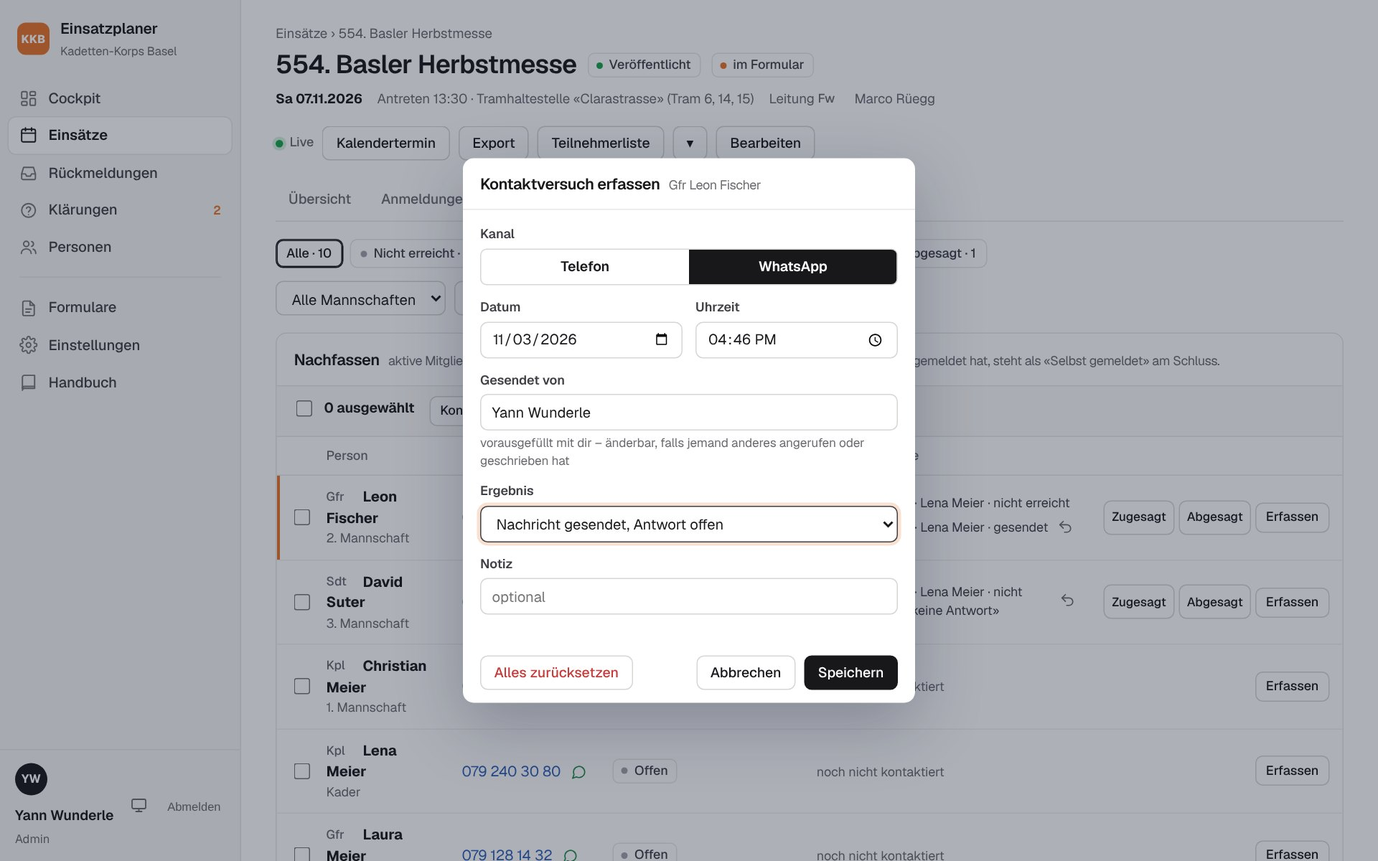
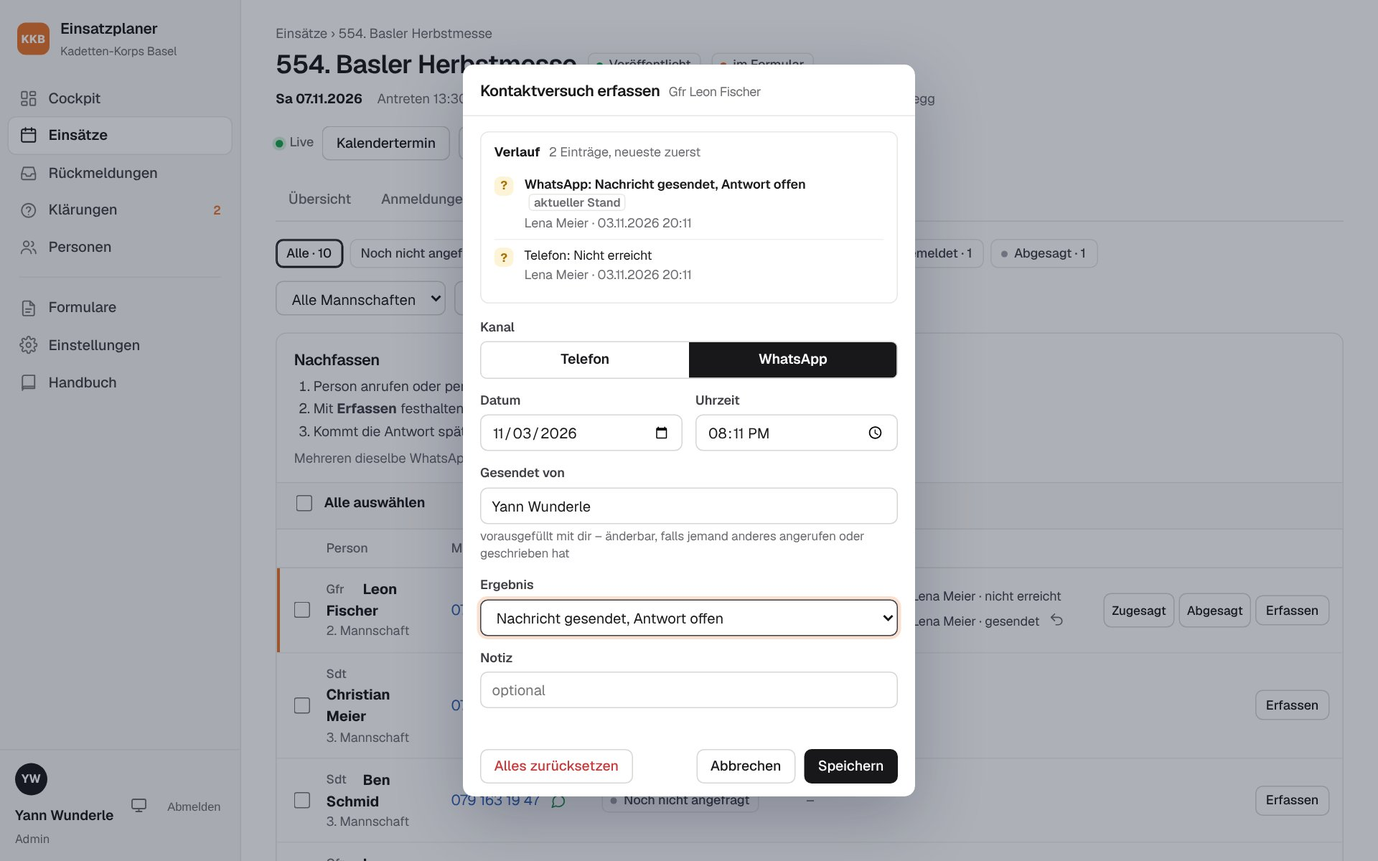
Rückmeldungen: Status-Historie pro Person und Einsatz
Das Symbol zeigt weiter nur den neuesten Stand. Beim Darüberfahren steht,
wer ihn wann gesetzt hat; ein Klick öffnet im Kontaktversuch-Fenster den
ganzen Verlauf (Formular, Kontakte, Statuswechsel, Schichten,
Bestätigungsmails). Quelle ist das bestehende Protokoll, deshalb erscheinen
auch ältere Einträge. Direkt gesetzter Anfragestatus wird neu protokolliert.
Handbuch (Kapitel 11, 13, FAQ) und Bild 12 nachgeführt, Bild 44 neu.

Claude-Session: https://claude.ai/code/session_01EBemd35pe3GHjPybdXLJqu

diff --git a/src/services/history.js b/src/services/history.js
@@ -1,0 +1,170 @@
+'use strict';
+// Status-Historie pro Person und Einsatz: jede Rückmeldung, jeder Statuswechsel und jeder Kontakt
+// mit wer und wann. Quelle ist das Protokoll (audit_log) plus die verschickten Bestätigungsmails,
+// damit auch alles einfliesst, was schon vor dieser Ansicht erfasst wurde.
+const db = require('../db');
+const { SOURCE, CHANNEL, REG_STATUS, INQUIRY_STATUS, ATTEMPT_RESULT } = require('../lib/labels');
+const { fmtDateTime, fmtRelative, toLocal } = require('../lib/dates');
+
+const SELF = 'Person selbst';
+
+// Anmeldestatus / Anfragestatus -> Symbol der Rückmeldungen-Tabelle
+function stateOfReg(status) {
+  if (!status) return null;
+  if (status === 'ungueltig') return 'offen';
+  if (['zurueckgezogen', 'abgesagt'].includes(status)) return 'ab';
+  if (['rueckfrage', 'unsicher'].includes(status)) return 'unsicher';
+  return 'an';
+}
+function stateOfResult(result) {
+  if (result === 'zugesagt') return 'an';
+  if (result === 'abgesagt') return 'ab';
+  if (result === 'offen') return 'offen';
+  return result ? 'unsicher' : null;
+}
+
+function parse(json) {
+  try { return json ? JSON.parse(json) : {}; } catch { return {}; }
+}
+
+// Text vor « hat » = wer es getan hat (ältere Einträge ohne Details)
+const actorOf = (summary) => String(summary || '').split(' hat ')[0];
+
+/** Einen Protokolleintrag in einen kurzen Historie-Eintrag übersetzen */
+function entryFromAudit(a) {
+  const d = parse(a.details);
+  const by = a.user_name || 'System';
+  const base = { id: `a${a.id}`, kind: `${a.entity_type}:${a.action}`, userId: a.user_id, at: a.created_at, by, state: null, text: '', note: null };
+  const s = a.summary || '';
+  switch (`${a.entity_type}:${a.action}`) {
+    case 'registration:create': {
+      const source = d.quelle || Object.keys(SOURCE).find((k) => s.includes(`· ${SOURCE[k]}`)) || null;
+      const no = d.antwort ? d.antwort === 'nein' : / hat für «.*» abgesagt/.test(s);
+      const self = !a.user_id && (source === 'formular' || (!source && by === 'System'));
+      return {
+        ...base, by: self ? SELF : by, self,
+        state: no ? 'ab' : (d.status === 'unsicher' || s.includes('Zuordnung unsicher') ? 'unsicher' : 'an'),
+        text: `${no ? 'Abgemeldet' : 'Angemeldet'}${source ? ` · ${SOURCE[source]}` : ''}`,
+      };
+    }
+    case 'registration:duplicate': {
+      const again = s.includes('erneut angemeldet');
+      const late = s.includes('nachträglich');
+      return {
+        ...base, by: SELF, self: true, state: again ? 'an' : late ? 'unsicher' : null,
+        text: again ? 'Erneut angemeldet (vorher abgemeldet)' : late ? 'Nachträglich «Nein» gesendet, Rückfrage nötig' : 'Formular nochmals abgeschickt',
+      };
+    }
+    case 'registration:status': {
+      const to = d.status?.neu;
+      return { ...base, state: stateOfReg(to), text: to ? `Anmeldung: ${REG_STATUS[to]?.label || to}` : s };
+    }
+    case 'registration:assign':
+      return { ...base, state: null, text: d.vorher ? `Anmeldung von ${d.vorher} hierher umgehängt` : 'Formular-Anmeldung dieser Person zugeordnet' };
+    case 'registration:unassign':
+      return { ...base, state: 'offen', text: 'Anmeldung zu einer anderen Person umgehängt' };
+    case 'registration:shifts': {
+      const m = s.match(/umgeteilt: (.*)$/);
+      return { ...base, text: m ? `Schicht: ${m[1]}` : 'Schicht geändert' };
+    }
+    case 'registration:note':
+      return { ...base, text: 'Interne Bemerkung geändert', note: d.internal_note?.neu || null };
+    case 'registration:delete':
+      return { ...base, state: 'offen', text: `${['zurueckgezogen', 'abgesagt'].includes(d.status) ? 'Abmeldung' : 'Anmeldung'} gelöscht` };
+    case 'inquiry:attempt': {
+      const ch = d.kanal ? CHANNEL[d.kanal]?.label : null;
+      const result = d.ergebnis;
+      const sentBy = d.gesendet_von || actorOf(s);
+      return {
+        ...base, by: sentBy, state: stateOfResult(result),
+        text: `${ch ? `${ch}: ` : ''}${ATTEMPT_RESULT[result] || result || 'Kontakt'}`,
+        when: d.zeitpunkt || null,
+        enteredBy: d.erfasst_von && d.erfasst_von !== sentBy ? d.erfasst_von : null,
+        note: d.notiz || null,
+      };
+    }
+    case 'inquiry:status':
+      return { ...base, state: stateOfResult(d.status?.neu), text: `Anfrage: ${INQUIRY_STATUS[d.status?.neu]?.label || d.status?.neu}` };
+    case 'inquiry:attempt_delete':
+      return { ...base, text: `Kontaktversuch zurückgenommen${d.kanal ? ` (${CHANNEL[d.kanal]?.label})` : ''}` };
+    case 'inquiry:reset':
+      return { ...base, state: 'offen', text: 'Alles zurückgesetzt' };
+    default:
+      return { ...base, text: s.replace(/ · [^·]+$/, '') };
+  }
+}
+
+const MAIL_STATUS = { gesendet: 'gesendet', offen: 'wird gesendet', nicht_konfiguriert: 'nicht gesendet (kein Mailserver)', fehler: 'Fehler beim Senden' };
+function entryFromMail(m) {
+  return { id: `m${m.id}`, at: m.created_at, by: 'automatisch', state: null, text: `Bestätigungsmail an ${m.to_address}: ${MAIL_STATUS[m.status] || m.status}` };
+}
+
+// Ein Kontaktversuch legt die Anmeldung gleich mit an bzw. zieht sie zurück: diese Begleit-Einträge
+// direkt vor dem Kontaktversuch weglassen, sonst steht dasselbe zweimal da
+function dropEchoes(list) {
+  return list.filter((e, i) => {
+    const next = list[i + 1];
+    if (!next || next.kind !== 'inquiry:attempt' || !['registration:create', 'registration:status'].includes(e.kind)) return true;
+    return !(e.userId === next.userId && Math.abs(new Date(next.at) - new Date(e.at)) < 5000);
+  });
+}
+
+function finish(list) {
+  // neueste zuerst, nach dem Zeitpunkt des Geschehens (Kontaktversuche können nachträglich erfasst sein);
+  // bei gleicher Minute der später erfasste zuerst
+  const key = (e) => {
+    const m = e.when && e.when.match(/^(\d{2})\.(\d{2})\.(\d{4}) (\d{2}:\d{2})$/);
+    return m ? `${m[3]}-${m[2]}-${m[1]}T${m[4]}` : toLocal(new Date(e.at));
+  };
+  const order = new Map(list.map((e, i) => [e, [key(e), e.at, i]]));
+  const cmp = (a, b) => (a < b ? -1 : a > b ? 1 : 0);
+  list.sort((x, y) => { const [kx, ax, ix] = order.get(x); const [ky, ay, iy] = order.get(y); return cmp(ky, kx) || cmp(ay, ax) || iy - ix; });
+  for (const e of list) { e.atText = e.when || fmtDateTime(e.at); e.atShort = fmtRelative(e.at); }
+  return list;
+}
+
+const RELEVANT = "a.entity_type IN ('registration','inquiry')";
+
+/** Komplette Historie einer Person bei einem Einsatz, neueste zuerst */
+function forPair(eventId, personId) {
+  const regIds = db.all('SELECT id FROM registrations WHERE event_id = ? AND person_id = ?', eventId, personId).map((r) => r.id);
+  const ph = regIds.map(() => '?').join(',');
+  const audits = db.all(`SELECT a.* FROM audit_log a WHERE ${RELEVANT} AND a.event_id = ? AND (a.person_id = ?${regIds.length ? ` OR (a.entity_type = 'registration' AND a.entity_id IN (${ph}))` : ''})
+    ORDER BY a.id`, eventId, personId, ...regIds);
+  const mails = regIds.length ? db.all(`SELECT * FROM mail_outbox WHERE registration_id IN (${ph}) ORDER BY id`, ...regIds) : [];
+  return finish([...dropEchoes(audits.map(entryFromAudit)), ...mails.map(entryFromMail)]);
+}
+
+/**
+ * Letzter Eintrag, der den Stand verändert hat, pro «personId:eventId» (für das Icon in der Tabelle).
+ * Einträge ohne Statusbezug (z. B. Schicht, Bemerkung) zählen nur, wenn es sonst nichts gibt.
+ */
+function latestByPair(eventIds) {
+  const out = new Map();
+  if (!eventIds.length) return out;
+  const ph = eventIds.map(() => '?').join(',');
+  // Formular-Anmeldungen ohne Person (später zugeordnet) über die Anmeldung der Person finden
+  const regPerson = new Map(db.all(`SELECT id, person_id FROM registrations WHERE event_id IN (${ph}) AND person_id IS NOT NULL`, ...eventIds).map((r) => [r.id, r.person_id]));
+  const rows = db.all(`SELECT a.* FROM audit_log a WHERE ${RELEVANT} AND a.event_id IN (${ph}) ORDER BY a.id`, ...eventIds);
+  const byPair = new Map();
+  for (const a of rows) {
+    const personId = a.person_id || (a.entity_type === 'registration' ? regPerson.get(a.entity_id) : null);
+    if (!personId) continue;
+    const key = `${personId}:${a.event_id}`;
+    if (!byPair.has(key)) byPair.set(key, []);
+    byPair.get(key).push(entryFromAudit(a));
+  }
+  // Bestätigungsmails zählen im Verlauf mit
+  const mails = new Map();
+  for (const m of db.all(`SELECT g.person_id, g.event_id, COUNT(*) AS n FROM mail_outbox o JOIN registrations g ON g.id = o.registration_id
+    WHERE g.event_id IN (${ph}) AND g.person_id IS NOT NULL GROUP BY g.person_id, g.event_id`, ...eventIds)) mails.set(`${m.person_id}:${m.event_id}`, m.n);
+  for (const [key, all] of byPair) {
+    const list = dropEchoes(all);
+    const e = [...list].reverse().find((x) => x.state) || list[list.length - 1];
+    e.count = list.length + (mails.get(key) || 0);
+    out.set(key, finish([e])[0]);
+  }
+  return out;
+}
+
+module.exports = { forPair, latestByPair, entryFromAudit, SELF };

diff --git a/test/flow.test.js b/test/flow.test.js
@@ -202,3 +202,44 @@ test('Kontaktversuch bei bestehender Anmeldung: Absage zieht zurück, Zusage akt
   assert.equal(registrations.get(reg).status, 'neu');
   assert.equal(db.one('SELECT COUNT(*) AS n FROM registrations WHERE person_id = ?', anna).n, 1);
 });
+
+test('Rückmeldungen: Historie zeigt wer wann welchen Stand gesetzt hat', () => {
+  const { anna, offen } = setup();
+  const inquiries = require('../src/services/inquiries');
+  const feedback = require('../src/services/feedback');
+  const history = require('../src/services/history');
+  const lena = { id: null, display_name: 'Lena Meier', role: 'admin' };
+  const marco = { id: null, display_name: 'Marco Frei', role: 'admin' };
+  db.run("UPDATE persons SET email = 'anna@example.ch' WHERE id = ?", anna);
+  // Nachricht gesendet, dann meldet sich Anna selbst an, dann bestätigt Marco
+  inquiries.addAttempt(offen, anna, { channel: 'whatsapp', result: 'whatsapp', note: 'Gruppenchat' }, lena);
+  const reg = registrations.create({ eventId: offen, personId: anna, enteredFirst: 'Anna', enteredLast: 'Roth', matchType: 'auto', source: 'formular', answer: 'ja' });
+  registrations.setStatus(reg, 'bestaetigt', marco);
+
+  const list = history.forPair(offen, anna);
+  const texts = list.map((e) => `${e.text} | ${e.by}`);
+  assert.ok(texts.includes('WhatsApp: Nachricht gesendet, Antwort offen | Lena Meier'), texts.join('\n'));
+  assert.ok(texts.includes('Angemeldet · Formular | Person selbst'), texts.join('\n'));
+  assert.ok(texts.includes('Anmeldung: Bestätigt | Marco Frei'), texts.join('\n'));
+  assert.ok(list.some((e) => e.text.startsWith('Bestätigungsmail an anna@example.ch')), 'Bestätigungsmail steht im Verlauf');
+  assert.equal(list.find((e) => e.kind === 'inquiry:attempt').note, 'Gruppenchat');
+
+  // Tabelle: Icon zeigt den neuesten Stand, dazu wer ihn gesetzt hat
+  const cell = feedback.matrix({}).rows.find((r) => r.person.id === anna).eventCells.find((c) => c.eventId === offen);
+  assert.equal(cell.state, 'an');
+  assert.equal(cell.last.by, 'Marco Frei');
+  assert.equal(cell.last.count, 4, 'inkl. Bestätigungsmail');
+
+  // Zusage per Telefon: Anmeldung und Kontakt erscheinen als ein Eintrag
+  const chris = db.one("SELECT id FROM persons WHERE first_name = 'Christian'").id;
+  inquiries.addAttempt(offen, chris, { channel: 'telefon', result: 'zugesagt' }, lena);
+  assert.deepEqual(history.forPair(offen, chris).map((e) => e.text), ['Telefon: Zugesagt']);
+  // Anfrage-Status direkt setzen wird ebenfalls protokolliert
+  inquiries.setStatus(offen, chris, 'unsicher', marco);
+  assert.equal(history.forPair(offen, chris)[0].by, 'Marco Frei');
+  // nachträglich erfasster Anruf von gestern steht zeitlich richtig, also zuunterst
+  inquiries.addAttempt(offen, chris, { channel: 'telefon', result: 'nicht_erreicht', date: addDays(today(), -1), time: '09:00' }, marco);
+  const h = history.forPair(offen, chris);
+  assert.equal(h[h.length - 1].text, 'Telefon: Nicht erreicht');
+  assert.match(h[h.length - 1].atText, / 09:00$/);
+});

diff --git a/src/services/inquiries.js b/src/services/inquiries.js
@@ -135,7 +135,7 @@ function addAttempt(eventId, personId, input, user) {
     audit.log({
       entity: 'inquiry', entityId: inq.id, eventId, personId, action: 'attempt',
       summary: `${sentByName} hat ${person.first_name} ${person.last_name} per ${CHANNEL[channel].label} angefragt (${resultText}) · ${event.name}`,
-      details: { kanal: channel, zeitpunkt: fmtLocal(contactedAt), ergebnis: result, erfasst_von: user.display_name }, user,
+      details: { kanal: channel, zeitpunkt: fmtLocal(contactedAt), ergebnis: result, gesendet_von: sentByName, erfasst_von: user.display_name, notiz: String(input.note || '').trim() || null }, user,
     });
     live.notify(`event:${eventId}`, 'feedback', `person:${personId}`);
     return { inquiryId: inq.id, registrationId };
@@ -151,7 +151,15 @@ function setStatus(eventId, personId, status, user) {
     return addAttempt(eventId, personId, { channel: last?.channel || 'whatsapp', result: status, note: 'Antwort erhalten' }, user);
   }
   const inq = ensureInquiry(eventId, personId, user);
+  if (inq.status === status) return { inquiryId: inq.id };
   db.run('UPDATE inquiries SET status = ?, version = version + 1, updated_at = ?, updated_by = ? WHERE id = ?', status, nowIso(), user.id, inq.id);
+  const person = db.one('SELECT first_name, last_name FROM persons WHERE id = ?', personId);
+  const event = db.one('SELECT name FROM events WHERE id = ?', eventId);
+  audit.log({
+    entity: 'inquiry', entityId: inq.id, eventId, personId, action: 'status',
+    summary: `${user.display_name} hat die Anfrage bei ${person?.first_name} ${person?.last_name} auf «${INQUIRY_STATUS[status].label}» gesetzt · ${event?.name}`,
+    details: { status: { alt: inq.status, neu: status } }, user,
+  });
   live.notify(`event:${eventId}`, 'feedback');
   return { inquiryId: inq.id };
 }

diff --git a/public/css/ruhig.css b/public/css/ruhig.css
@@ -241,3 +241,19 @@ td .sub, .cell-sub { font-size: 12px; margin-top: 1px; }
 .nachfassen-head .hint { margin: 0; font-size: 12.5px; }
 .bulkbar [hidden], dialog .btn[hidden] { display: none !important; }
 @media print { .nachfassen-steps, .nachfassen-head .hint { display: none; } }
+
+/* Verlauf im Kontaktversuch-Fenster: wer hat wann welchen Stand gesetzt */
+.hist { border: 1px solid var(--border); border-radius: 8px; padding: 10px 12px; margin-bottom: 14px; }
+.hist[hidden] { display: none; }
+.hist-head { display: flex; gap: 8px; align-items: baseline; margin-bottom: 6px; }
+.hist-list { list-style: none; margin: 0; padding: 0; max-height: 300px; overflow-y: auto; }
+.hist-row { display: grid; grid-template-columns: 18px 1fr; gap: 10px; padding: 6px 0; border-top: 1px solid var(--border-soft); }
+.hist-row:first-child { border-top: 0; }
+.hist-row .fb-sm { width: 18px; height: 18px; font-size: 11px; cursor: default; margin-top: 1px; }
+.fb-none { background: transparent; color: var(--muted-2); }
+.hist-main { display: flex; flex-direction: column; gap: 1px; min-width: 0; }
+.hist-text { color: var(--text); }
+.hist-meta { color: var(--muted); font-size: 12px; }
+.hist-note { color: var(--text-2); font-size: 12px; overflow-wrap: anywhere; }
+.hist-now { font-size: 11px; color: var(--muted); border: 1px solid var(--border); border-radius: 4px; padding: 0 4px; margin-left: 4px; white-space: nowrap; }
+.hist-latest .hist-text { font-weight: 600; }

diff --git a/src/services/feedback.js b/src/services/feedback.js
@@ -2,6 +2,7 @@
 // Rückmeldungen: Mitglieder × anstehende Einsätze (An / Ab / Unsicher / Offen)
 const db = require('../db');
 const externals = require('./externals');
+const history = require('./history');
 const { today, addDays } = require('../lib/dates');
 const { rankOrder } = require('../lib/sorting');
 
@@ -47,6 +48,8 @@ function matrix({ team = '', period = '3m', sort = 'rang', includeDrafts = false
   const regs = new Map();
   const inqs = new Map();
   const assigned = new Map();
+  // wer den aktuellen Stand gesetzt hat (letzter Historie-Eintrag pro Person und Einsatz)
+  const latest = history.latestByPair(ids);
   if (ids.length) {
     const ph = ids.map(() => '?').join(',');
     for (const r of db.all(`SELECT * FROM registrations WHERE event_id IN (${ph}) AND person_id IS NOT NULL`, ...ids)) regs.set(`${r.person_id}:${r.event_id}`, r);
@@ -89,7 +92,7 @@ function matrix({ team = '', period = '3m', sort = 'rang', includeDrafts = false
     const eventCells = evts.map((e) => {
       const c = cellState(regs.get(`${p.id}:${e.id}`), inqs.get(`${p.id}:${e.id}`));
       totals[e.id][c.state]++;
-      return { ...c, eventId: e.id };
+      return { ...c, eventId: e.id, last: latest.get(`${p.id}:${e.id}`) || null };
     });
     const byEvent = new Map(eventCells.map((c) => [c.eventId, c]));
     const cells = columns.map((col) => {

diff --git a/public/js/app.js b/public/js/app.js
@@ -738,6 +738,23 @@
       link.hidden = !btn.dataset.currentLink;
       if (btn.dataset.currentLink) link.href = btn.dataset.currentLink;
     }
+    // Verlauf dieser Person bei diesem Einsatz nachladen (wer hat wann was gesetzt)
+    const hist = dlg.querySelector('[data-history]');
+    if (hist) {
+      const pid = btn.dataset.bulkDialog ? '' : btn.dataset.person;
+      const eid = btn.dataset.event || dlg.dataset.event;
+      hist.hidden = !(pid && eid);
+      hist.textContent = '';
+      if (pid && eid) {
+        hist.innerHTML = '<div class="muted">Verlauf wird geladen …</div>';
+        const want = `${pid}:${eid}`;
+        hist.dataset.for = want;
+        fetch(`/rueckmeldungen/verlauf?person=${encodeURIComponent(pid)}&event=${encodeURIComponent(eid)}`, { credentials: 'same-origin' })
+          .then((r) => (r.ok ? r.text() : Promise.reject(new Error(String(r.status)))))
+          .then((html) => { if (hist.dataset.for === want) hist.innerHTML = html; })
+          .catch(() => { if (hist.dataset.for === want) hist.innerHTML = '<div class="muted">Verlauf konnte nicht geladen werden.</div>'; });
+      }
+    }
     const resetBtn = dlg.querySelector('[data-reset-person]');
     if (resetBtn) resetBtn.hidden = Boolean(btn.dataset.bulkDialog);
     $$('details.menu[open]').forEach((d) => d.removeAttribute('open'));

diff --git a/src/routes/feedback.js b/src/routes/feedback.js
@@ -2,6 +2,7 @@
 const express = require('express');
 const db = require('../db');
 const feedback = require('../services/feedback');
+const history = require('../services/history');
 const { sendTable, wantsExport } = require('../lib/export');
 const { FEEDBACK } = require('../lib/labels');
 const h = require('../lib/view-helpers');
@@ -30,6 +31,14 @@ router.get('/rueckmeldungen', (req, res) => {
     allUsers: db.all("SELECT id, display_name FROM users WHERE active = 1 AND role <> 'einsatzleiter' ORDER BY display_name"), liveTopics: ['feedback', 'events'],
     shiftChoices: feedback.shiftChoices(data.events.map((e) => e.id)),
   });
+});
+
+// Historie einer Person bei einem Einsatz (wird im Kontaktversuch-Fenster nachgeladen)
+router.get('/rueckmeldungen/verlauf', (req, res) => {
+  const personId = Number(req.query.person);
+  const eventId = Number(req.query.event);
+  if (!personId || !eventId) return res.status(400).send('');
+  res.render('partials/status-history', { entries: history.forPair(eventId, personId) });
 });
 
 module.exports = router;

diff --git a/src/services/registrations.js b/src/services/registrations.js
@@ -176,7 +176,10 @@ function create({ eventId, personId = null, enteredFirst = null, enteredLast = n
   const text = answer === 'nein'
     ? `${who} hat für «${event.name}» abgesagt · ${SOURCE[source]}`
     : `${who} hat sich für «${event.name}» angemeldet · ${SOURCE[source]}${!personId ? ' (Zuordnung unsicher)' : ''}`;
-  audit.log({ entity: 'registration', entityId: id, eventId, personId, action: 'create', summary: user ? `${text} (erfasst von ${user.display_name})` : text, user });
+  audit.log({
+    entity: 'registration', entityId: id, eventId, personId, action: 'create', summary: user ? `${text} (erfasst von ${user.display_name})` : text,
+    details: { quelle: source, antwort: answer, status: finalStatus }, user,
+  });
   live.notify(`event:${eventId}`, 'clarifications', 'feedback');
   return id;
 }

diff --git a/docs/handbuch/handbuch.md b/docs/handbuch/handbuch.md
@@ -352,7 +352,7 @@ Weitere Hilfen im Reiter:
 
 ![Kontaktversuch erfassen](bilder/12-kontaktversuch.jpg)
 
-Im Fenster wählt man Kanal, Datum und Uhrzeit (vorausgefüllt mit jetzt), **Gesendet von** (vorausgefüllt mit dem eigenen Namen, änderbar), das Ergebnis und eine Notiz. Bei «Zugesagt» und einem Einsatz mit mehreren Schichten wählt man zusätzlich die Schichten.
+Oben im Fenster steht der **Verlauf** dieser Person für den Einsatz: alle Kontakte, Rückmeldungen und Statuswechsel mit Name und Zeit (mehr dazu in Kapitel 13). Darunter wählt man Kanal, Datum und Uhrzeit (vorausgefüllt mit jetzt), **Gesendet von** (vorausgefüllt mit dem eigenen Namen, änderbar), das Ergebnis und eine Notiz. Bei «Zugesagt» und einem Einsatz mit mehreren Schichten wählt man zusätzlich die Schichten.
 
 **Alles zurücksetzen:** Unten links im Fenster löscht **Alles zurücksetzen** für diese Person und diesen Einsatz alle Kontaktversuche, die Rückmeldung bzw. Anmeldung und die Schichtzuteilung. Die Person steht danach wieder als «Noch nicht angefragt» in der Liste. Vorher fragt der Einsatzplaner nach. Ein Formular-Eingang bleibt unter «Formulare» gespeichert. Bei Personen, die schon zugesagt haben oder selbst gemeldet sind, steht dafür in der Anfragen-Liste rechts das Symbol ↶. Einen einzelnen falsch erfassten Kontaktversuch nimmt man dagegen mit dem ↶ direkt neben dem Versuch zurück.
 
@@ -395,17 +395,31 @@ Die Seite **Rückmeldungen** beantwortet die wichtigste Frage der Aufgebotsstell
 
 - Mitglieder als Zeilen, Einsätze als Spalten. Kopfzeile und Namensspalte bleiben beim Scrollen stehen.
 - Im Spaltenkopf jedes Einsatzes steht die Besetzung als Balken, z. B. «11 / 16».
-- **Symbole:** ✓ An, ✕ Ab, ? Unsicher, leeres Feld = Offen.
-- Ein Klick auf ein Feld öffnet immer das Fenster für einen Kontaktversuch, auch bei ✓ oder ✕. Oben steht der aktuelle Stand (z. B. «An · Anmeldung: Bestätigt · Formular») mit einem Link zur Anmeldung. Dort lässt sich auch **«Unsicher – weiss es noch nicht»** eintragen oder mit **Alles zurücksetzen** neu beginnen. Erfasst man bei einer bestehenden Anmeldung «Abgesagt», wird sie als zurückgezogen markiert. «Zugesagt» macht eine zurückgezogene Anmeldung wieder aktiv.
+- **Symbole:** ✓ An, ✕ Ab, ? Unsicher, leeres Feld = Offen. Das Symbol zeigt immer nur den neuesten Stand.
+- **Wer hat das gesetzt?** Fährt man mit der Maus über ein Feld, steht dort der letzte Eintrag mit Name und Zeit, z. B. «Zuletzt: Anmeldung: Bestätigt – Lena Meier, heute 14:20 (4 Einträge im Verlauf)». Hat sich jemand selbst über das Formular gemeldet, steht «Person selbst».
+- Ein Klick auf ein Feld öffnet immer das Fenster für einen Kontaktversuch, auch bei ✓ oder ✕. Oben steht der aktuelle Stand (z. B. «An · Anmeldung: Bestätigt · Formular · gesetzt von Lena Meier, heute 14:20») mit einem Link zur Anmeldung. Darunter folgt der **Verlauf** (siehe unten). Dort lässt sich auch **«Unsicher – weiss es noch nicht»** eintragen oder mit **Alles zurücksetzen** neu beginnen. Erfasst man bei einer bestehenden Anmeldung «Abgesagt», wird sie als zurückgezogen markiert. «Zugesagt» macht eine zurückgezogene Anmeldung wieder aktiv.
 - Unten stehen pro Einsatz die Summen An · Ab · Unsicher · Offen.
 - **Einsätze mit mehreren Schichten** haben eine Spalte pro Schicht, mit eigener Besetzung (z. B. «Tagschicht 8 / 10»). ✓ heisst: für diese Schicht angemeldet oder eingeteilt. – heisst: angemeldet, aber für eine andere Schicht. Ein gestricheltes ✓ heisst: zugesagt, aber die Schicht ist noch nicht festgelegt. Ab, Unsicher und Offen gelten für alle Schichten des Einsatzes.
 - Klickt man in einer Schicht-Spalte auf ein offenes Feld und wählt **«Zugesagt»**, ist diese Schicht schon angekreuzt. Weitere Schichten lassen sich dazu wählen, oder man lässt die Auswahl leer und teilt später unter «Schichten» zu. Das gilt genauso beim Erfassen unter Einsatz › Anfragen und auf der Seite eines Mitglieds.
+
+### Verlauf pro Person und Einsatz
+
+![Verlauf im Fenster der Rückmeldungen](bilder/44-verlauf-rueckmeldung.jpg)
+
+Der Verlauf sammelt alles, was bei dieser Person für diesen Einsatz passiert ist, die neuesten Einträge stehen oben. Jeder Eintrag zeigt, was passiert ist, wer es getan hat und wann:
+
+- Anmeldungen und Abmeldungen über das Formular («Person selbst»), per Telefon, WhatsApp oder von Hand erfasst
+- jeder Kontaktversuch mit Kanal und Ergebnis, z. B. «WhatsApp: Nachricht gesendet, Antwort offen», mit Notiz. Wurde der Kontakt für jemand anderen erfasst, steht zusätzlich «erfasst von …».
+- jeder Statuswechsel der Anmeldung (bestätigt, Warteliste, Rückfrage, zurückgezogen …) und jede Änderung der Schicht
+- verschickte Bestätigungsmails, Zurücknehmen eines Kontaktversuchs und «Alles zurücksetzen»
+
+Das Symbol links entspricht dem Stand nach diesem Eintrag. Ein Punkt bedeutet, dass der Eintrag den Stand nicht verändert hat, z. B. bei einer Mail. Der Eintrag, der den aktuellen Stand gesetzt hat, ist mit **aktueller Stand** markiert. Ein nachträglich erfasster Kontaktversuch steht beim Zeitpunkt, an dem angerufen oder geschrieben wurde. Der Verlauf enthält auch alles, was vor dieser Funktion erfasst wurde. Derselbe Verlauf erscheint beim Erfassen unter Einsatz › Anfragen und auf der Seite eines Mitglieds.
 
 ### Ansicht «Pro Einsatz»
 
 ![Rückmeldungen pro Einsatz](bilder/15-rueckmeldungen-pro-einsatz.jpg)
 
-Eine Karte pro Einsatz mit den Namen, gruppiert nach An, Unsicher, Ab und Offen. Bei mehreren Schichten steht «An» aufgeteilt nach Schicht, jeweils mit Besetzung, dazu «An, Schicht noch offen» mit Link zum Zuteilen. Ein Klick auf einen offenen Namen erfasst direkt eine Anfrage. Diese Ansicht ist besonders übersichtlich, wenn viele Einsätze anstehen.
+Eine Karte pro Einsatz mit den Namen, gruppiert nach An, Unsicher, Ab und Offen. Bei mehreren Schichten steht «An» aufgeteilt nach Schicht, jeweils mit Besetzung, dazu «An, Schicht noch offen» mit Link zum Zuteilen. Ein Klick auf einen offenen Namen erfasst direkt eine Anfrage. Fährt man mit der Maus über einen Namen, steht dort, wer den Stand zuletzt gesetzt hat und wann. Diese Ansicht ist besonders übersichtlich, wenn viele Einsätze anstehen.
 
 ### Filter
 
@@ -792,6 +806,9 @@ Das Mitglied sieht die Bestätigungsseite erst, wenn die Anmeldung sicher gespei
 
 **Was ist, wenn jemand das Formular zweimal abschickt?**
 Doppelte Absendungen werden erkannt. Pro Person und Einsatz gibt es höchstens eine Anmeldung.
+
+**Wie sehe ich, wer jemanden schon angeschrieben oder einen Status geändert hat?**
+In den Rückmeldungen mit der Maus über das Feld fahren: Dort stehen der letzte Eintrag, der Name und die Zeit. Ein Klick öffnet den ganzen Verlauf mit allen Kontakten, Rückmeldungen und Statuswechseln.
 
 **Ist man automatisch dabei, wenn man sich anmeldet?**
 Nein. Jede Anmeldung wird von der Aufgebotsstelle bestätigt. Erst dann erhält das Mitglied seine Anmeldebestätigung.
